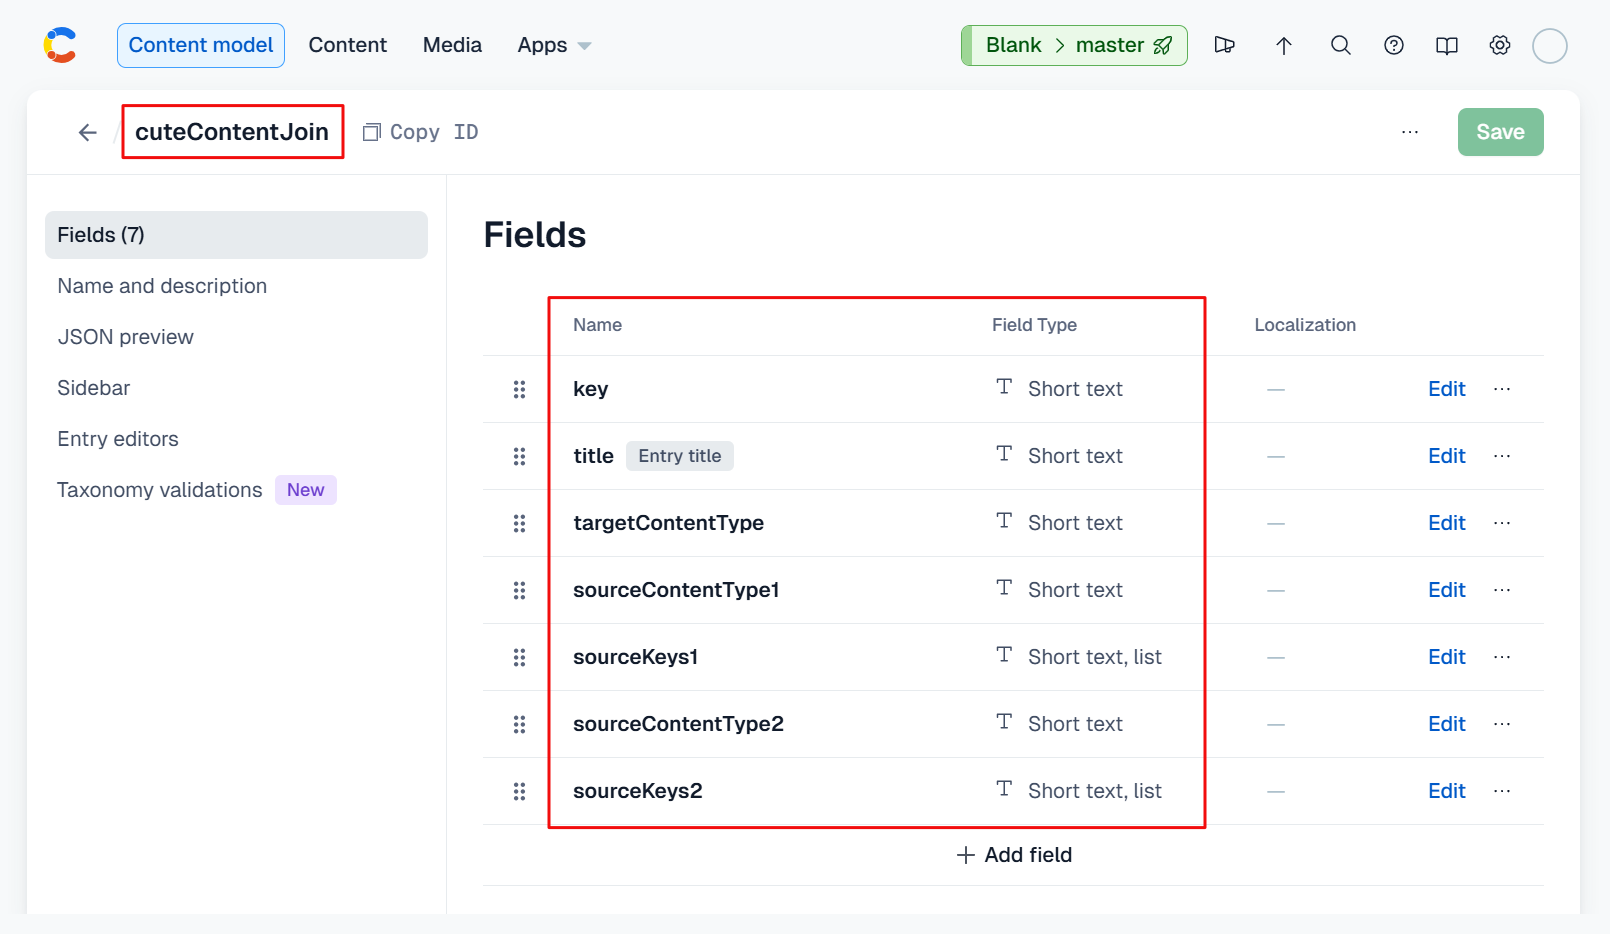
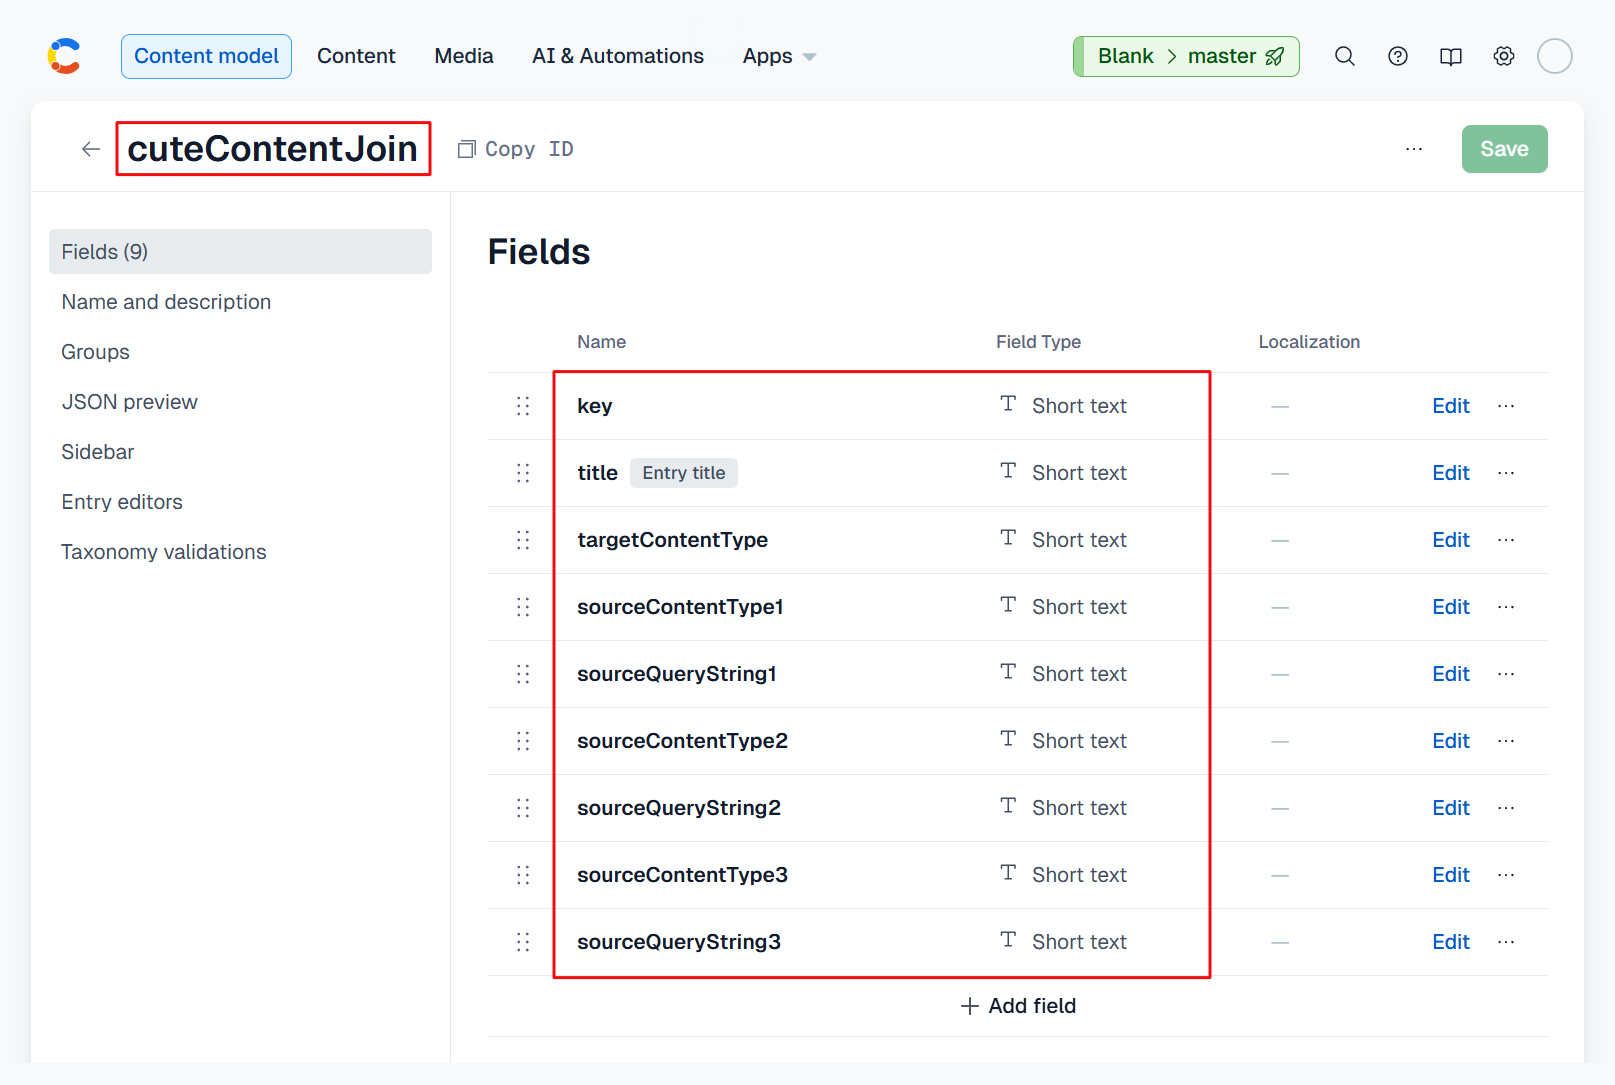
Updated documentation with model change for cuteContentJoin

diff --git a/README.md b/README.md
@@ -56,8 +56,6 @@
 - [Contributing to Cute](#contributing-to-cute)
 
 <!-- /TOC -->
-<!-- /TOC -->
-<!-- /TOC -->
 </details>
 
 # Introduction
@@ -225,9 +223,13 @@ We'll start by configuring our content aggregate. We'll use our existing `diplom
 
 > 💡 See [this section](#configuring-cutecontentjoin) if you need to define a `cuteContentJoin` content type within your Contentful space if you're using this feature for the first time.
 
-See the attached screenshot below. The `targetContentType` refers to our new aggregated content type. For source 1 our content type is `branchLocation` and we're selecting all entries `*`. For source 2 our content type is `diplomaCourse` and we're selecting only `MATHEMATICS`. 
+See the attached screenshot below. The `targetContentType` refers to our new aggregated content type. We can join up to 3 sources, but for this example we'll focus on 2. For source 1 our content type is `branchLocation` and by leaving `sourceQueryString1` empty, we're effectively selecting all entries. For source 2 our content type is `diplomaCourse` and we're selecting only `MATHEMATICS`. 
 
 ![contentful cuteContentJoin entry configuration screenshot](https://raw.githubusercontent.com/andresharpe/cute/master/docs/images/contentful-cuteContentJoin-entry.png)
+
+> 💡 Ask [GhatGPT]([#configuring-cutecontentjoin](https://chatgpt.com/)) for guidance on how you can form your query string parameters. A prompt like `give me an overview on using square bracket notation for web api query parameters` should yield the necessary guidance.
+>
+> The example above uses `fields.key=MATHEMATICS`, but you can include multiple values using `fields.key[in]=MATHEMATICS,ECONOMICS,ART`
 
 Running the `cute content join --key ViewCourseByLocation` command yields the following output:
 
@@ -454,6 +456,10 @@ mapping:
 Running the `cute content sync-api -k dataUserDB -a` command yields the following output in the terminal:
 
 ![cute content sync-api database screenshot](https://raw.githubusercontent.com/andresharpe/cute/master/docs/images/cute-content-syncapi-db.png)
+
+And a closer look at our `User` content type in Contentful reveals the addition of the 5 user records in our database.
+
+![cute content sync-api database result screenshot](https://raw.githubusercontent.com/andresharpe/cute/master/docs/images/contentful-User-dbsync-result.png)
 
 [Back to Index](#table-of-content)
 
@@ -763,7 +769,7 @@ Typing `cute content testdata --help` will show the full usage and options.
 
 ```powershell
 USAGE:
-    cute server webhooks [OPTIONS]
+    cute content testdata [OPTIONS]
 
 OPTIONS:
     -h, --help                  Prints help information
